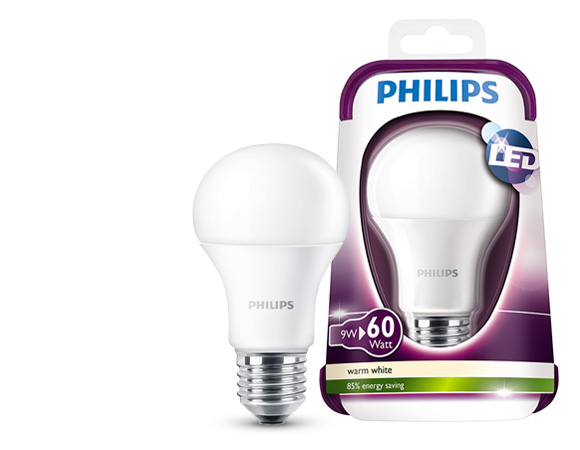
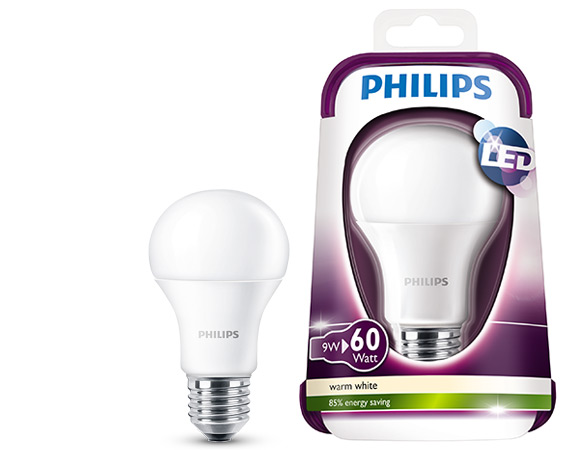
misc 0.1

diff --git a/skin/frontend/rwdTim/default/css/styles.css b/skin/frontend/rwdTim/default/css/styles.css
@@ -10910,7 +10910,7 @@ content: '.';
 }
 
 .lp-photo2 img {
-    max-height: 435px;
+    max-height: 385px;
 }
 
 
@@ -10996,7 +10996,7 @@ text-align: center;
          padding-left: 20px;
     display: block;
     overflow: auto;
-        background: #EFEFEF;
+        /*background: #EFEFEF;*/
     padding-top: 10px;
     padding-bottom: 10px;
     padding-right: 20px;
@@ -11293,3 +11293,16 @@ div.main-container.col2-right-layout {
 }
     
 }
+
+.product-essential .input-box {
+    font-size:18px;
+    display:block;
+}
+
+span.product-show-big {
+font-weight:bold;
+    color:#0b5ed8;
+    font-size:20px;
+}
+
+

diff --git a/js/varien/js.js b/js/varien/js.js
@@ -717,4 +717,14 @@ jQuery(function() {
   if(/success/.test(loc)) {
     jQuery('.main').removeClass('cartbackground');
   }
+
+jQuery('.product-essential .input-box:contains(3 x)').each(function(){
+  jQuery(this).html(jQuery(this).html().replace(/3 x/g,'<span class="product-show-big">3 x</span>'));
+});
+
+jQuery('.product-essential .input-box:contains(2 x)').each(function(){
+  jQuery(this).html(jQuery(this).html().replace(/2 x/g,'<span class="product-show-big">2 x</span>'));
+});
+
+  
 });
